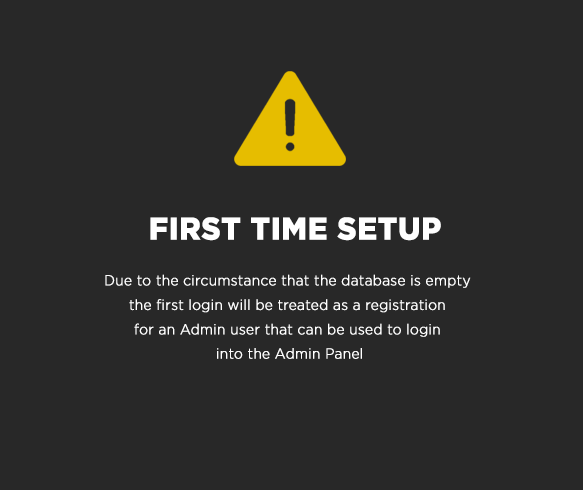
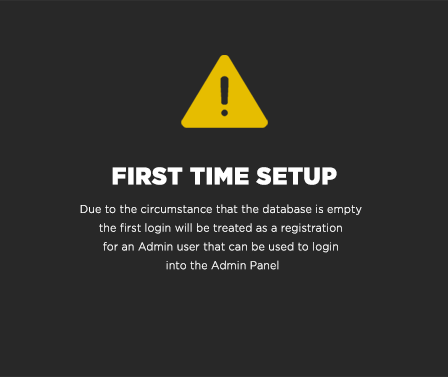
Added Account Popup

diff --git a/src/ui/FLogInMenu.java b/src/ui/FLogInMenu.java
@@ -4,6 +4,7 @@ import classes.*;
 import instances.Database;
 import instances.Forms;
 import popups.FirstTimeSetup;
+import popups.AdminAccountCreated;
 import java.awt.Color;
 import java.awt.event.FocusEvent;
 import javax.swing.JOptionPane;
@@ -174,7 +175,9 @@ public class FLogInMenu extends javax.swing.JFrame
         if (Database.Instance.CountEmployees() == 0)
         {
             Database.Instance.EmployeeRegister("First Name", "Last Name", 1, IDTxtField.getText(), KeyTxtField.getText(), 0, CPrivilege.ALL_PRIVILEGE);
-            JOptionPane.showMessageDialog(this, "This account is now registered as an admin!\n\nPlease setup your profile in the admin panel.", "First time setup", JOptionPane.INFORMATION_MESSAGE);
+            AdminAccountCreated AccountCreated = new AdminAccountCreated();
+            AccountCreated.setLocationRelativeTo(this);
+            AccountCreated.setVisible(true);
             BtnLogin.setText("Login");
             Database.Instance.SaveToFile();
         }

diff --git a/src/popups/AdminAccountCreated.java b/src/popups/AdminAccountCreated.java
@@ -1,8 +1,8 @@
 package popups;
 
-public class FirstTimeSetup extends javax.swing.JFrame {
+public class AdminAccountCreated extends javax.swing.JFrame {
 
-    public FirstTimeSetup() {
+    public AdminAccountCreated() {
         initComponents();
     }
 
@@ -32,7 +32,7 @@ public class FirstTimeSetup extends javax.swing.JFrame {
         });
         getContentPane().add(jButton2, new org.netbeans.lib.awtextra.AbsoluteConstraints(-40, 310, -1, 80));
 
-        Background.setIcon(new javax.swing.ImageIcon(getClass().getResource("/resources/FirstTimeSetup.png"))); // NOI18N
+        Background.setIcon(new javax.swing.ImageIcon(getClass().getResource("/resources/AdminAccountCreated.png"))); // NOI18N
         getContentPane().add(Background, new org.netbeans.lib.awtextra.AbsoluteConstraints(0, 0, -1, -1));
 
         pack();
